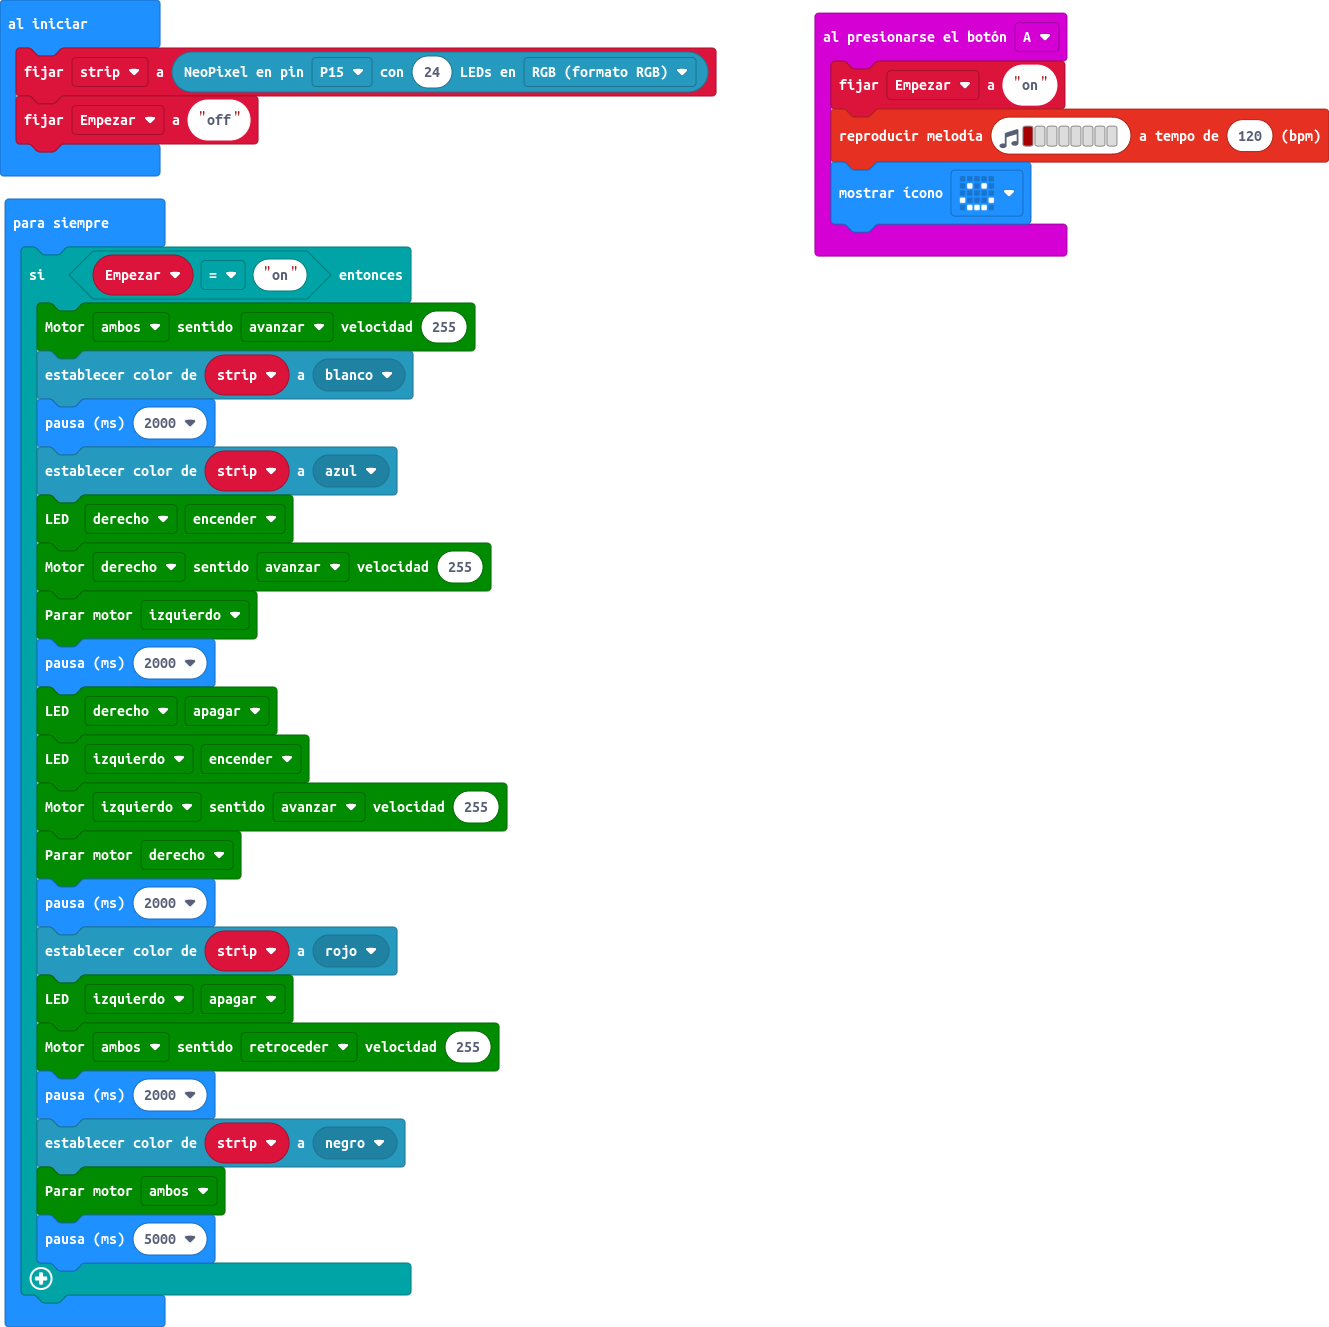
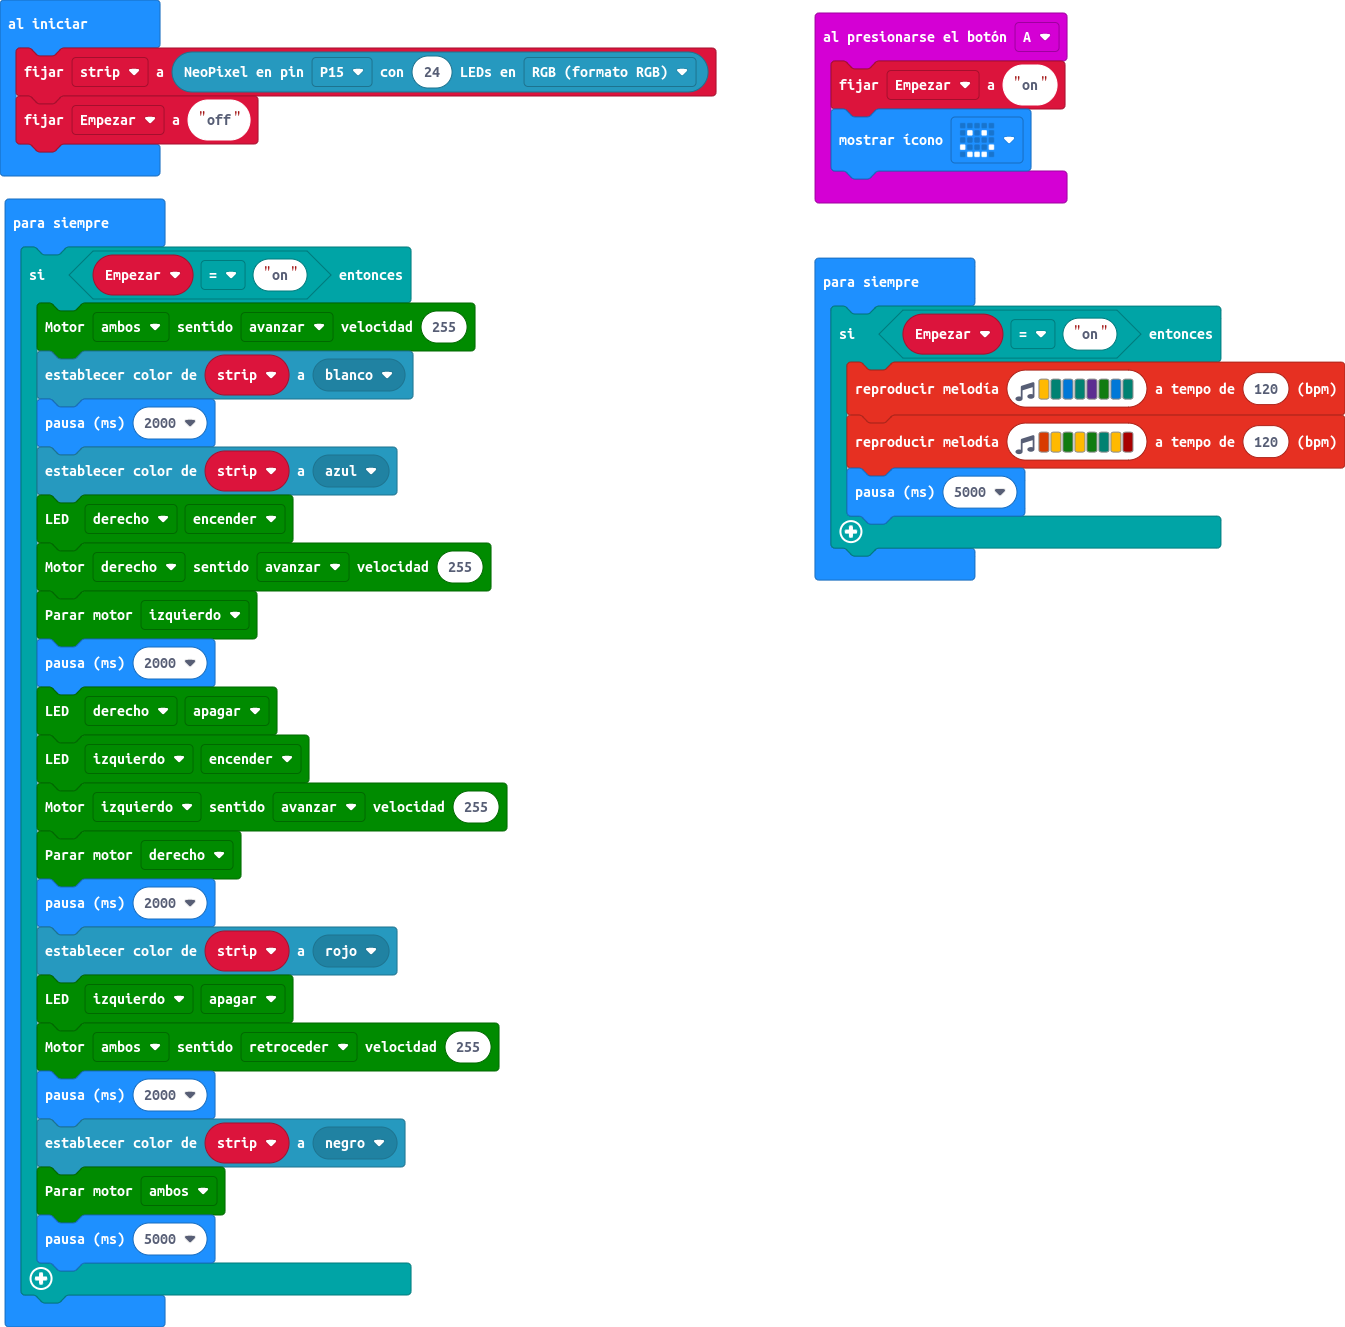
Actualizar pxt.json, main.blocks, main.ts

diff --git a/main.ts b/main.ts
@@ -1,6 +1,5 @@
 input.onButtonPressed(Button.A, function () {
     Empezar = "on"
-    music.playMelody("C5 - - - - - - - ", 120)
     basic.showIcon(IconNames.Happy)
 })
 let Empezar = ""
@@ -27,6 +26,13 @@ basic.forever(function () {
         basic.pause(2000)
         strip.showColor(neopixel.colors(NeoPixelColors.Black))
         maqueen.motorStop(maqueen.Motors.All)
+        basic.pause(5000)
+    }
+})
+basic.forever(function () {
+    if (Empezar == "on") {
+        music.playMelody("A F E F D G E F ", 120)
+        music.playMelody("B A G A G F A C5 ", 120)
         basic.pause(5000)
     }
 })
